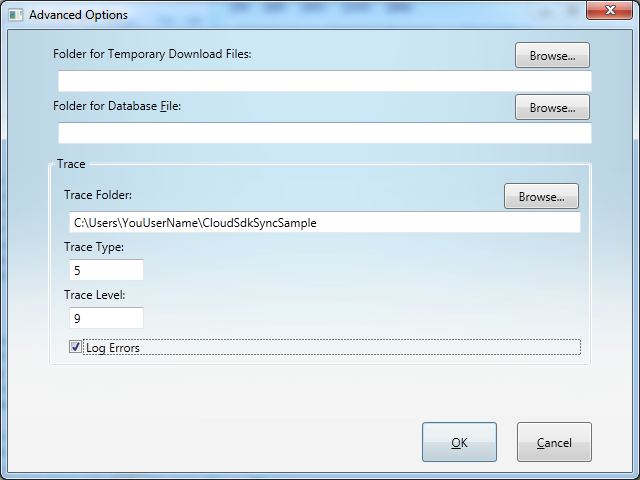
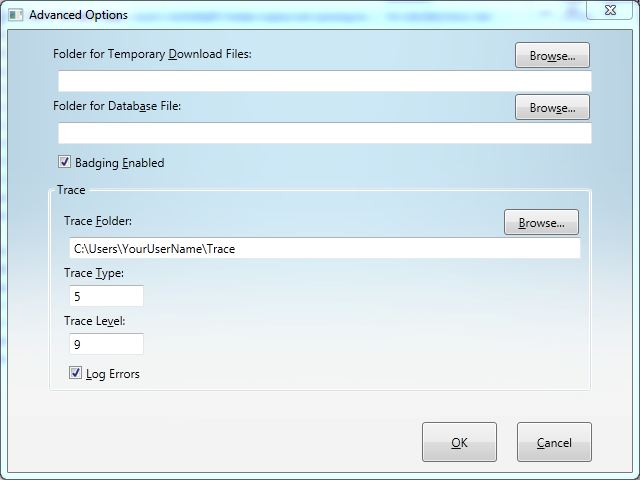
1) Updated the main page documentation.
2) Updated the release notes.
3) Changed the version information for Sprint3 (2/11/13).
4) Added support for the BadgingEnabled setting.
5) Switched to the development non-api.* routes.
6) Added keyboard accelerators to the Advanced options sample app dialog.
7) Changed two messages in the sample app to be more descriptive.

Changed region(s): [[0.0625, 0.3125, 0.9375, 0.8125], [0.0, 0.2812, 1.0, 1.0], [0.0, 0.0, 1.0, 0.25]]

diff --git a/CloudSdkSyncSample/Views/AdvancedOptionsView.xaml b/CloudSdkSyncSample/Views/AdvancedOptionsView.xaml
@@ -21,11 +21,11 @@
         <StackPanel Orientation="Vertical" Grid.Row="1" Grid.Column="1">
             <!-- Temporary download file Folder -->
             <Grid>
-                <Label Content="Folder for Temporary Download Files:" Target="{Binding ElementName=tbTempDownloadFolder}"/>
+                <Label Content="Folder for Temporary _Download Files:" Target="{Binding ElementName=tbTempDownloadFolder}"/>
                 <Button x:Name="cmdBrowseTempDownloadFolder" HorizontalAlignment="Right" Width="75" Margin="2" 
                         Height="26" Command="{Binding Path=CommandBrowseTempDownloadFolder, Mode=OneTime}" 
                         ToolTip="Click to choose a folder to be used for the temporary download files.">
-                    <AccessText Text="Browse..."/>
+                    <AccessText Text="Bro_wse..."/>
                 </Button>
             </Grid>
             <TextBox x:Name="tbTempDownloadFolder" Margin="10,0,0,0" 
@@ -34,26 +34,30 @@
                      ToolTip="Enter the full path of the folder to be used for temporary download files."/>
             <!-- Database file -->
             <Grid>
-                <Label Content="Folder for Database _File:" Target="{Binding ElementName=tbDatabaseFolderFullPath}"/>
+                <Label Content="Folder for Datab_ase File:" Target="{Binding ElementName=tbDatabaseFolderFullPath}"/>
                 <Button x:Name="cmdBrowseDatabaseFolder" HorizontalAlignment="Right" Width="75" Margin="2" 
                         Height="26" Command="{Binding Path=CommandBrowseDatabaseFolder, Mode=OneTime}" 
                         ToolTip="Click to choose a folder to be used for the database file.">
-                    <AccessText Text="Browse..."/>
+                    <AccessText Text="Brow_se..."/>
                 </Button>
             </Grid>
             <TextBox Name="tbDatabaseFolderFullPath" Margin="10,0,0,0" 
                     Text="{Binding DatabaseFolderFullPath, Mode=TwoWay, UpdateSourceTrigger=PropertyChanged}"
                      ext:FocusExtension.IsFocused="{Binding IsDatabaseFolderFullPathFocused}"
                     ToolTip="Folder to use for the database file.  Enter the full path of the folder to hold the IndexDB.sdf database file."/>
+            <CheckBox Content="Badging _Enabled" Margin="10,10,0,0"
+                                    IsChecked="{Binding BadgingEnabled, Mode=TwoWay}"
+                                    ToolTip="Check to enable Explorer icon badging."/>
+
             <GroupBox Header="Trace" HorizontalAlignment="Stretch" Margin="0,10,0,0">
                 <StackPanel Orientation="Vertical" Margin="5,10,5,5">                   
                     <!-- Trace folder full path -->
                     <Grid>
-                        <Label Content="Trace Folder:" Target="{Binding ElementName=tbTraceFolder}"/>
+                        <Label Content="Trace _Folder:" Target="{Binding ElementName=tbTraceFolder}"/>
                         <Button x:Name="cmdBrowseTraceFolder" HorizontalAlignment="Right" Width="75" Margin="2" 
                         Height="26" Command="{Binding Path=CommandBrowseTraceFolder, Mode=OneTime}" 
                         ToolTip="Click to choose a folder to be used for the trace files.">
-                            <AccessText Text="Browse..."/>
+                            <AccessText Text="_Browse..."/>
                         </Button>
                     </Grid>
                     <TextBox x:Name="tbTraceFolder" Margin="10,0,0,0" 
@@ -61,18 +65,18 @@
                          ext:FocusExtension.IsFocused="{Binding IsTraceFolderFullPathFocused}"
                         ToolTip="Folder for trace files."/>
                     <!-- Trace Type -->
-                    <Label Content="Trace Type:" Target="{Binding ElementName=tbTraceType}"/>
+                    <Label Content="Trace _Type:" Target="{Binding ElementName=tbTraceType}"/>
                     <TextBox x:Name="tbTraceType" Margin="10,0,0,0" Width="75" HorizontalAlignment="Left"
                         Text="{Binding TraceType, Mode=TwoWay, UpdateSourceTrigger=PropertyChanged}"
                          ext:FocusExtension.IsFocused="{Binding IsTraceTypeFocused}"
                         ToolTip="Bitmask for items to be traced."/>
                     <!-- Trace Level -->
-                    <Label Content="Trace Level:" Target="{Binding ElementName=tbTraceLevel}"/>
+                    <Label Content="Trace Le_vel:" Target="{Binding ElementName=tbTraceLevel}"/>
                     <TextBox x:Name="tbTraceLevel" Margin="10,0,0,0" Width="75" HorizontalAlignment="Left"
                         Text="{Binding TraceLevel, Mode=TwoWay, UpdateSourceTrigger=PropertyChanged}"
                          ext:FocusExtension.IsFocused="{Binding IsTraceLevelFocused}"
                         ToolTip="Higher number for more functional trace.  Zero for no trace.  10 for all trace."/>
-                    <CheckBox Content="Log Errors" Margin="10,10,0,0"
+                    <CheckBox Content="_Log Errors" Margin="10,10,0,0"
                                     IsChecked="{Binding LogErrors, Mode=TwoWay}"
                                     ToolTip="Check to log errors to an error trace file."/>
                 </StackPanel>

diff --git a/CloudApiPublic/CLSync/CLSyncSettings.cs b/CloudApiPublic/CLSync/CLSyncSettings.cs
@@ -105,6 +105,9 @@ namespace CloudApiPublic
         }
         private readonly int _traceLevel;
 
+        /// <summary>
+        /// The ID of this device, unique within the SyncBox.
+        /// </summary>
         public string DeviceId
         {
             get
@@ -113,6 +116,18 @@ namespace CloudApiPublic
             }
         }
         private readonly string _deviceId;
+
+        /// <summary>
+        /// True: Enable badging.
+        /// </summary>
+        public bool BadgingEnabled
+        {
+            get
+            {
+                return _badgingEnabled;
+            }
+        }
+        private readonly bool _badgingEnabled;
 
         /// <summary>
         /// If null, a precalculated value will be used based on the local, non-roaming user's application data in the Cloud subdirectory
@@ -171,6 +186,7 @@ namespace CloudApiPublic
                 true,
                 0,
                 Environment.MachineName + Guid.NewGuid().ToString("N"),
+                true,
                 null,
                 "SimpleClient01",
                 Environment.MachineName,
@@ -192,6 +208,7 @@ namespace CloudApiPublic
                 true,
                 0,
                 Environment.MachineName + Guid.NewGuid().ToString("N"),
+                true,
                 null,
                 "SimpleClient01",
                 Environment.MachineName,
@@ -206,6 +223,7 @@ namespace CloudApiPublic
                     bool traceExcludeAuthorization,
                     int traceLevel,
                     string deviceId,
+                    bool badgingEnabled,
                     string tempDownloadFolderFullPath,
                     string clientVersion,
                     string friendlyName,
@@ -218,6 +236,7 @@ namespace CloudApiPublic
             this._traceExcludeAuthorization = traceExcludeAuthorization;
             this._traceLevel = traceLevel;
             this._deviceId = deviceId;
+            this._badgingEnabled = badgingEnabled;
             this._tempDownloadFolderFullPath = tempDownloadFolderFullPath;
             this._clientVersion = clientVersion;
             this._friendlyName = friendlyName;
@@ -241,6 +260,7 @@ namespace CloudApiPublic
                 toCopy.TraceExcludeAuthorization,
                 toCopy.TraceLevel,
                 String.IsNullOrWhiteSpace(toCopy.DeviceId) ? Environment.MachineName + Guid.NewGuid().ToString("N") : toCopy.DeviceId,
+                toCopy.BadgingEnabled,
                 toCopy.TempDownloadFolderFullPath,
                 toCopy.ClientVersion,
                 toCopy.FriendlyName,

diff --git a/CloudSdkSyncSample/Models/Settings.cs b/CloudSdkSyncSample/Models/Settings.cs
@@ -13,6 +13,7 @@ namespace CloudSdkSyncSample.Models
         public string UniqueDeviceId { get; set; }
         public string TempDownloadFolderFullPath { get; set; }
         public string DatabaseFolderFullPath { get; set; }
+        public bool BadgingEnabled { get; set; }
         public bool LogErrors { get; set; }
         public TraceType TraceType { get; set; }
         public string TraceFolderFullPath { get; set; }
@@ -37,6 +38,7 @@ namespace CloudSdkSyncSample.Models
             UniqueDeviceId = settingsCopy.UniqueDeviceId;
             TempDownloadFolderFullPath = settingsCopy.TempDownloadFolderFullPath;
             DatabaseFolderFullPath = settingsCopy.DatabaseFolderFullPath;
+            BadgingEnabled = settingsCopy.BadgingEnabled;
             LogErrors = settingsCopy.LogErrors;
             TraceType = settingsCopy.TraceType;
             TraceFolderFullPath = settingsCopy.TraceFolderFullPath;
@@ -68,6 +70,7 @@ namespace CloudSdkSyncSample.Models
             if (!Object.Equals(UniqueDeviceId, otherSettings.UniqueDeviceId)) return false;
             if (!Object.Equals(TempDownloadFolderFullPath, otherSettings.TempDownloadFolderFullPath)) return false;
             if (!Object.Equals(DatabaseFolderFullPath, otherSettings.DatabaseFolderFullPath)) return false;
+            if (!Object.Equals(BadgingEnabled, otherSettings.BadgingEnabled)) return false;
             if (!Object.Equals(TraceFolderFullPath, otherSettings.TraceFolderFullPath)) return false;
 
             // Use this pattern to compare value members
@@ -97,6 +100,7 @@ namespace CloudSdkSyncSample.Models
             this.UniqueDeviceId = Properties.Settings.Default.UniqueDeviceId;
             this.TempDownloadFolderFullPath = Properties.Settings.Default.TempDownloadFolderFullPath;
             this.DatabaseFolderFullPath = Properties.Settings.Default.DatabaseFolderFullPath;
+            this.BadgingEnabled = Properties.Settings.Default.BadgingEnabled;
             this.LogErrors = Properties.Settings.Default.LogErrors;
             this.TraceType = Properties.Settings.Default.TraceType;
             this.TraceFolderFullPath = Properties.Settings.Default.TraceFolderFullPath;

diff --git a/CloudApiPrivate/Model/Settings/CLSettings.cs b/CloudApiPrivate/Model/Settings/CLSettings.cs
@@ -188,6 +188,7 @@ namespace CloudApiPrivate.Model.Settings
         public const string kSid = "sid";
         public const string kRecentFileItems = "recent_file_items";
         public const string kUdid = "device_udid";
+        public const string kBadgingEnabled = "badging_enabled";
         public const string kLogErrors = "log_errors";
         public const string kLogErrorLocation = "log_error_location";
         public const string kCloudFolderCreationTimeUtc = "cloud_folder_path_creation_time";
@@ -521,8 +522,19 @@ namespace CloudApiPrivate.Model.Settings
                 SettingsBase.Write<string>(kUdid, value);
             }
         }
-        
 
+        private bool _badgingEnabled;
+        public bool BadgingEnabled
+        {
+            get { return _badgingEnabled; }
+            set
+            {
+                _badgingEnabled = value;
+                _trace.writeToLog(9, "CLSettings: Instance: Set new BadgingEnabled: {0}.", _badgingEnabled);
+                SettingsBase.Write<bool>(kUdid, value);
+            }
+        }
+        
         private Boolean _completedSetup;
         public Boolean CompletedSetup
         {
@@ -905,6 +917,7 @@ namespace CloudApiPrivate.Model.Settings
             _akey = ""; // only available when registered.
             _syncBoxId = ""; // only available when registered.
             _deviceId = "";
+            _badgingEnabled = true;
             _userName = "";
             _userFullName = "";
             _deviceName = "";
@@ -1226,6 +1239,12 @@ namespace CloudApiPrivate.Model.Settings
             {
                 _deviceId = tempString;
                 _trace.writeToLog(9, "CLSettings: Instance: Initialize Udid: {0} from Settings file.", _deviceId);
+            }
+
+            isPresent = SettingsBase.ReadIfPresent<Boolean>(kBadgingEnabled, out tempBoolean);
+            if (isPresent)
+            {
+                _badgingEnabled = tempBoolean;
             }
 
             isPresent = SettingsBase.ReadIfPresent<string>(kMainWindowPlacement, out tempString);

diff --git a/CloudSdkSyncSample/ViewModels/MainViewModel.cs b/CloudSdkSyncSample/ViewModels/MainViewModel.cs
@@ -186,6 +186,22 @@ namespace CloudSdkSyncSample.ViewModels
             }
         }
 
+        public bool BadgingEnabled
+        {
+            get { return _settingsCurrent.BadgingEnabled; }
+            set
+            {
+                if (value == _settingsCurrent.BadgingEnabled)
+                {
+                    return;
+                }
+
+                _settingsCurrent.BadgingEnabled= value;
+
+                base.OnPropertyChanged("BadgingEnabled");
+            }
+        }
+
         #endregion
 
         #region IsEnabled Properties
@@ -729,8 +745,10 @@ namespace CloudSdkSyncSample.ViewModels
             Properties.Settings.Default.Token = Token;
             Properties.Settings.Default.SyncBoxId = SyncBoxId;
             Properties.Settings.Default.UniqueDeviceId = DeviceId;
+            Properties.Settings.Default.BadgingEnabled = BadgingEnabled;
             Properties.Settings.Default.TempDownloadFolderFullPath = _settingsCurrent.TempDownloadFolderFullPath;
             Properties.Settings.Default.DatabaseFolderFullPath = _settingsCurrent.DatabaseFolderFullPath;
+            Properties.Settings.Default.BadgingEnabled = _settingsCurrent.BadgingEnabled;
             Properties.Settings.Default.LogErrors = _settingsCurrent.LogErrors;
             Properties.Settings.Default.TraceType = _settingsCurrent.TraceType;
             Properties.Settings.Default.TraceFolderFullPath = _settingsCurrent.TraceFolderFullPath;

diff --git a/CloudSdkSyncSample/ViewModels/AdvancedOptionsViewModel.cs b/CloudSdkSyncSample/ViewModels/AdvancedOptionsViewModel.cs
@@ -82,6 +82,22 @@ namespace CloudSdkSyncSample.ViewModels
             }
         }
 
+        public bool BadgingEnabled
+        {
+            get { return _settingsCurrent.BadgingEnabled; }
+            set
+            {
+                if (value == _settingsCurrent.BadgingEnabled)
+                {
+                    return;
+                }
+
+                _settingsCurrent.BadgingEnabled = value;
+
+                base.OnPropertyChanged("BadgingEnabled");
+            }
+        }
+
         public bool LogErrors
         {
             get { return _settingsCurrent.LogErrors; }
@@ -437,6 +453,7 @@ namespace CloudSdkSyncSample.ViewModels
             // Save the values to caller's settings
             _settingsCaller.TempDownloadFolderFullPath = TempDownloadFolderFullPath;
             _settingsCaller.DatabaseFolderFullPath = DatabaseFolderFullPath;
+            _settingsCaller.BadgingEnabled = BadgingEnabled;
             _settingsCaller.LogErrors = LogErrors;
             _settingsCaller.TraceType = (TraceType)Convert.ToInt32(TraceType);
             _settingsCaller.TraceFolderFullPath = TraceFolderFullPath;

diff --git a/CloudApiPublic/BadgeNET/IconOverlay.cs b/CloudApiPublic/BadgeNET/IconOverlay.cs
@@ -95,6 +95,13 @@ namespace CloudApiPublic.BadgeNET
                 // Initialize trace in case it is not already initialized.
                 CLTrace.Initialize(_syncSettings.TraceLocation, "Cloud", "log", _syncSettings.TraceLevel, _syncSettings.LogErrors);
 
+                // Just exit if badging is not enabled.
+                if (!_syncSettings.BadgingEnabled)
+                {
+                    _trace.writeToLog(9, "IconOverlay: Badging is not enabled. Exit.");
+                    return null;
+                }
+
                 _trace.writeToLog(9, "IconOverlay: Initialize: Entry.");
                 return pInitialize(syncBoxId, initialList);
             }

diff --git a/CloudSdkSyncSample/Views/AdvancedOptionsView.xaml.cs b/CloudSdkSyncSample/Views/AdvancedOptionsView.xaml.cs
@@ -128,7 +128,7 @@ namespace CloudSdkSyncSample.Views
 
         private void OnNotifyAdvancedSettingsChanged(object sender, Support.NotificationEventArgs<string, bool> e)
         {
-            MessageBoxResult result = MessageBox.Show("Some settings have changed.  Do you want to cancel the changes anyway?", "Cancel Anyway?", MessageBoxButton.YesNo, MessageBoxImage.Question);
+            MessageBoxResult result = MessageBox.Show("Some settings have changed.  Do you want to cancel the changes and exit anyway?", "Cancel and Exit Anyway?", MessageBoxButton.YesNo, MessageBoxImage.Question);
             e.Completed(result == MessageBoxResult.Yes);
         }
     }

diff --git a/CloudSdkSyncSample/Views/MainView.xaml.cs b/CloudSdkSyncSample/Views/MainView.xaml.cs
@@ -84,7 +84,7 @@ namespace CloudSdkSyncSample.Views
 
         private void OnNotifySettingsChanged(object sender, Support.NotificationEventArgs<string, bool> e)
         {
-            MessageBoxResult result = MessageBox.Show("Some settings have changed.  Do you want to cancel the changes anyway?", "Cancel Anyway?", MessageBoxButton.YesNo, MessageBoxImage.Question);
+            MessageBoxResult result = MessageBox.Show("Some settings have changed.  Do you want to cancel the changes and exit anyway?", "Cancel and Exit Anyway?", MessageBoxButton.YesNo, MessageBoxImage.Question);
             e.Completed(result == MessageBoxResult.Yes);
         }
 

diff --git a/CloudSdkSyncSample/Properties/Settings.Designer.cs b/CloudSdkSyncSample/Properties/Settings.Designer.cs
@@ -214,5 +214,17 @@ namespace CloudSdkSyncSample.Properties {
                 this["Token"] = value;
             }
         }
+        
+        [global::System.Configuration.UserScopedSettingAttribute()]
+        [global::System.Diagnostics.DebuggerNonUserCodeAttribute()]
+        [global::System.Configuration.DefaultSettingValueAttribute("True")]
+        public bool BadgingEnabled {
+            get {
+                return ((bool)(this["BadgingEnabled"]));
+            }
+            set {
+                this["BadgingEnabled"] = value;
+            }
+        }
     }
 }

diff --git a/CloudApiPublic/Interfaces/ICLSyncSettings.cs b/CloudApiPublic/Interfaces/ICLSyncSettings.cs
@@ -76,6 +76,10 @@ namespace CloudApiPublic.Interfaces
         /// </summary>
         string DeviceId { get; }
         /// <summary>
+        /// True: Enable badging.
+        /// </summary>
+        bool BadgingEnabled { get; }
+        /// <summary>
         /// Version letters/numbers used in communication with the server to identify the type of client (i.e. "MyClient01"); do not mimic values passed by other Cloud applications
         /// </summary>
         string ClientVersion { get; }

diff --git a/CloudApiPublic/Static/CLDefinitions.cs b/CloudApiPublic/Static/CLDefinitions.cs
@@ -8,8 +8,8 @@
 // Back end definitions
 // @@@@@@@@@ EXACTLY ONE OF THE FOLLOWING MUST BE DEFINED @@@@@@@@@@@@@@@@@
 //#define PRODUCTION_BACKEND 
-//#define DEVELOPMENT_BACKEND     // cliff.cloudburrito.com
-#define STAGING_BACKEND       // cloudstaging.us
+#define DEVELOPMENT_BACKEND     // cliff.cloudburrito.com
+//#define STAGING_BACKEND       // cloudstaging.us
 
 // URL definitions
 // @@@@@@@@@ EXACTLY ONE OF THE FOLLOWING MUST BE DEFINED @@@@@@@@@@@@@@@@@
